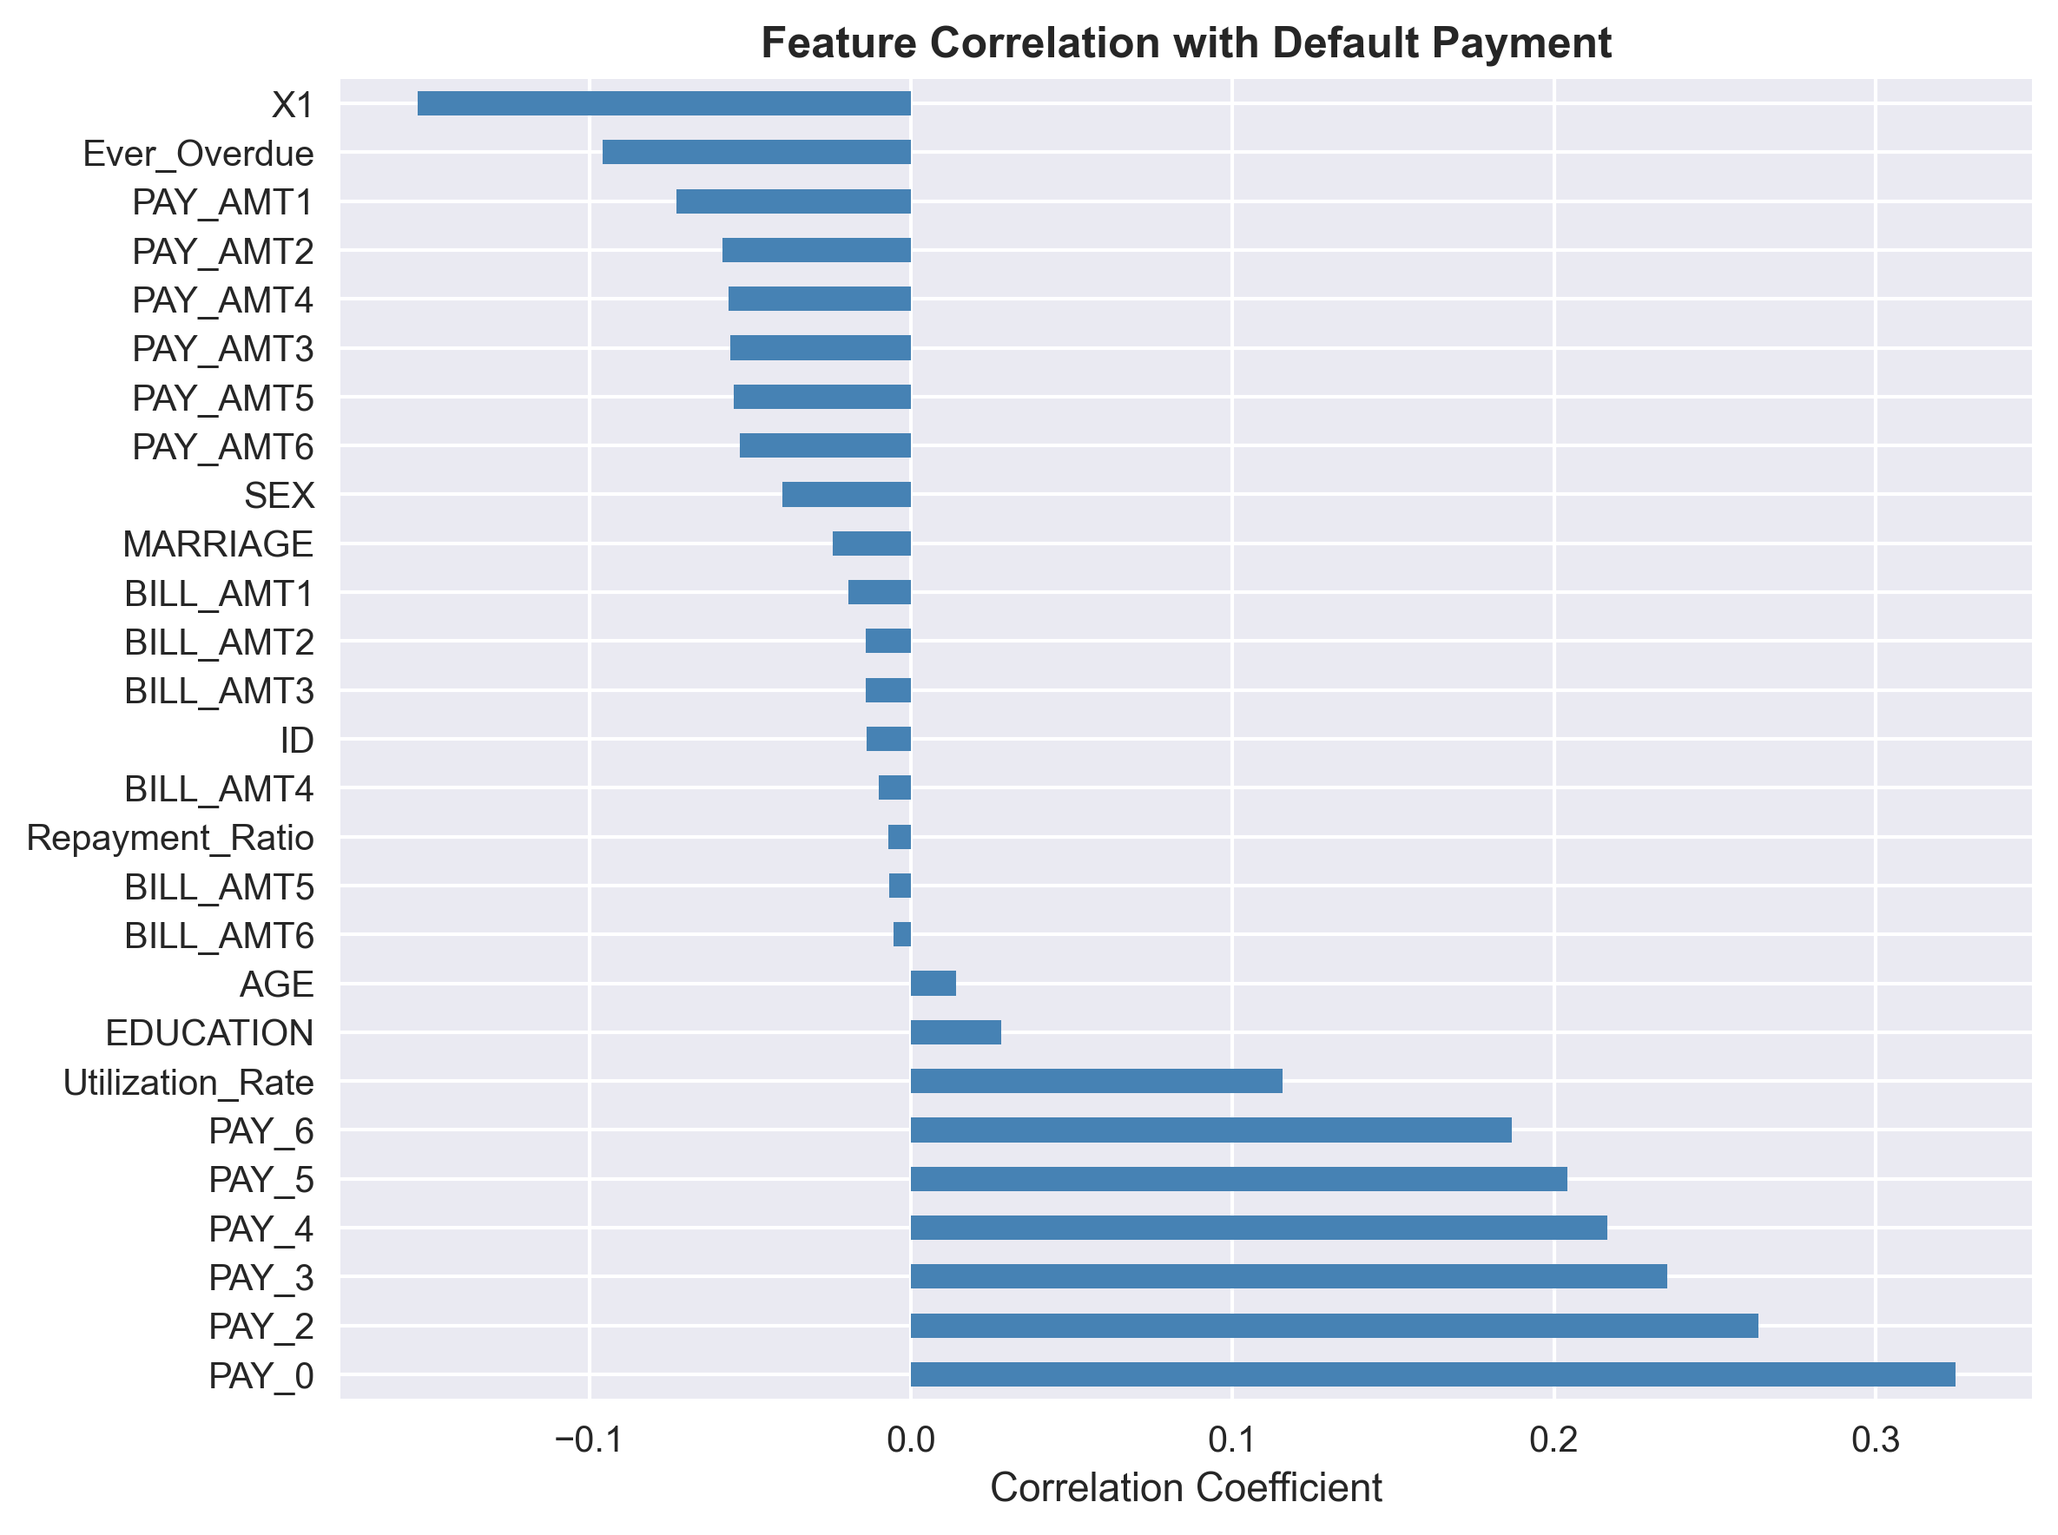
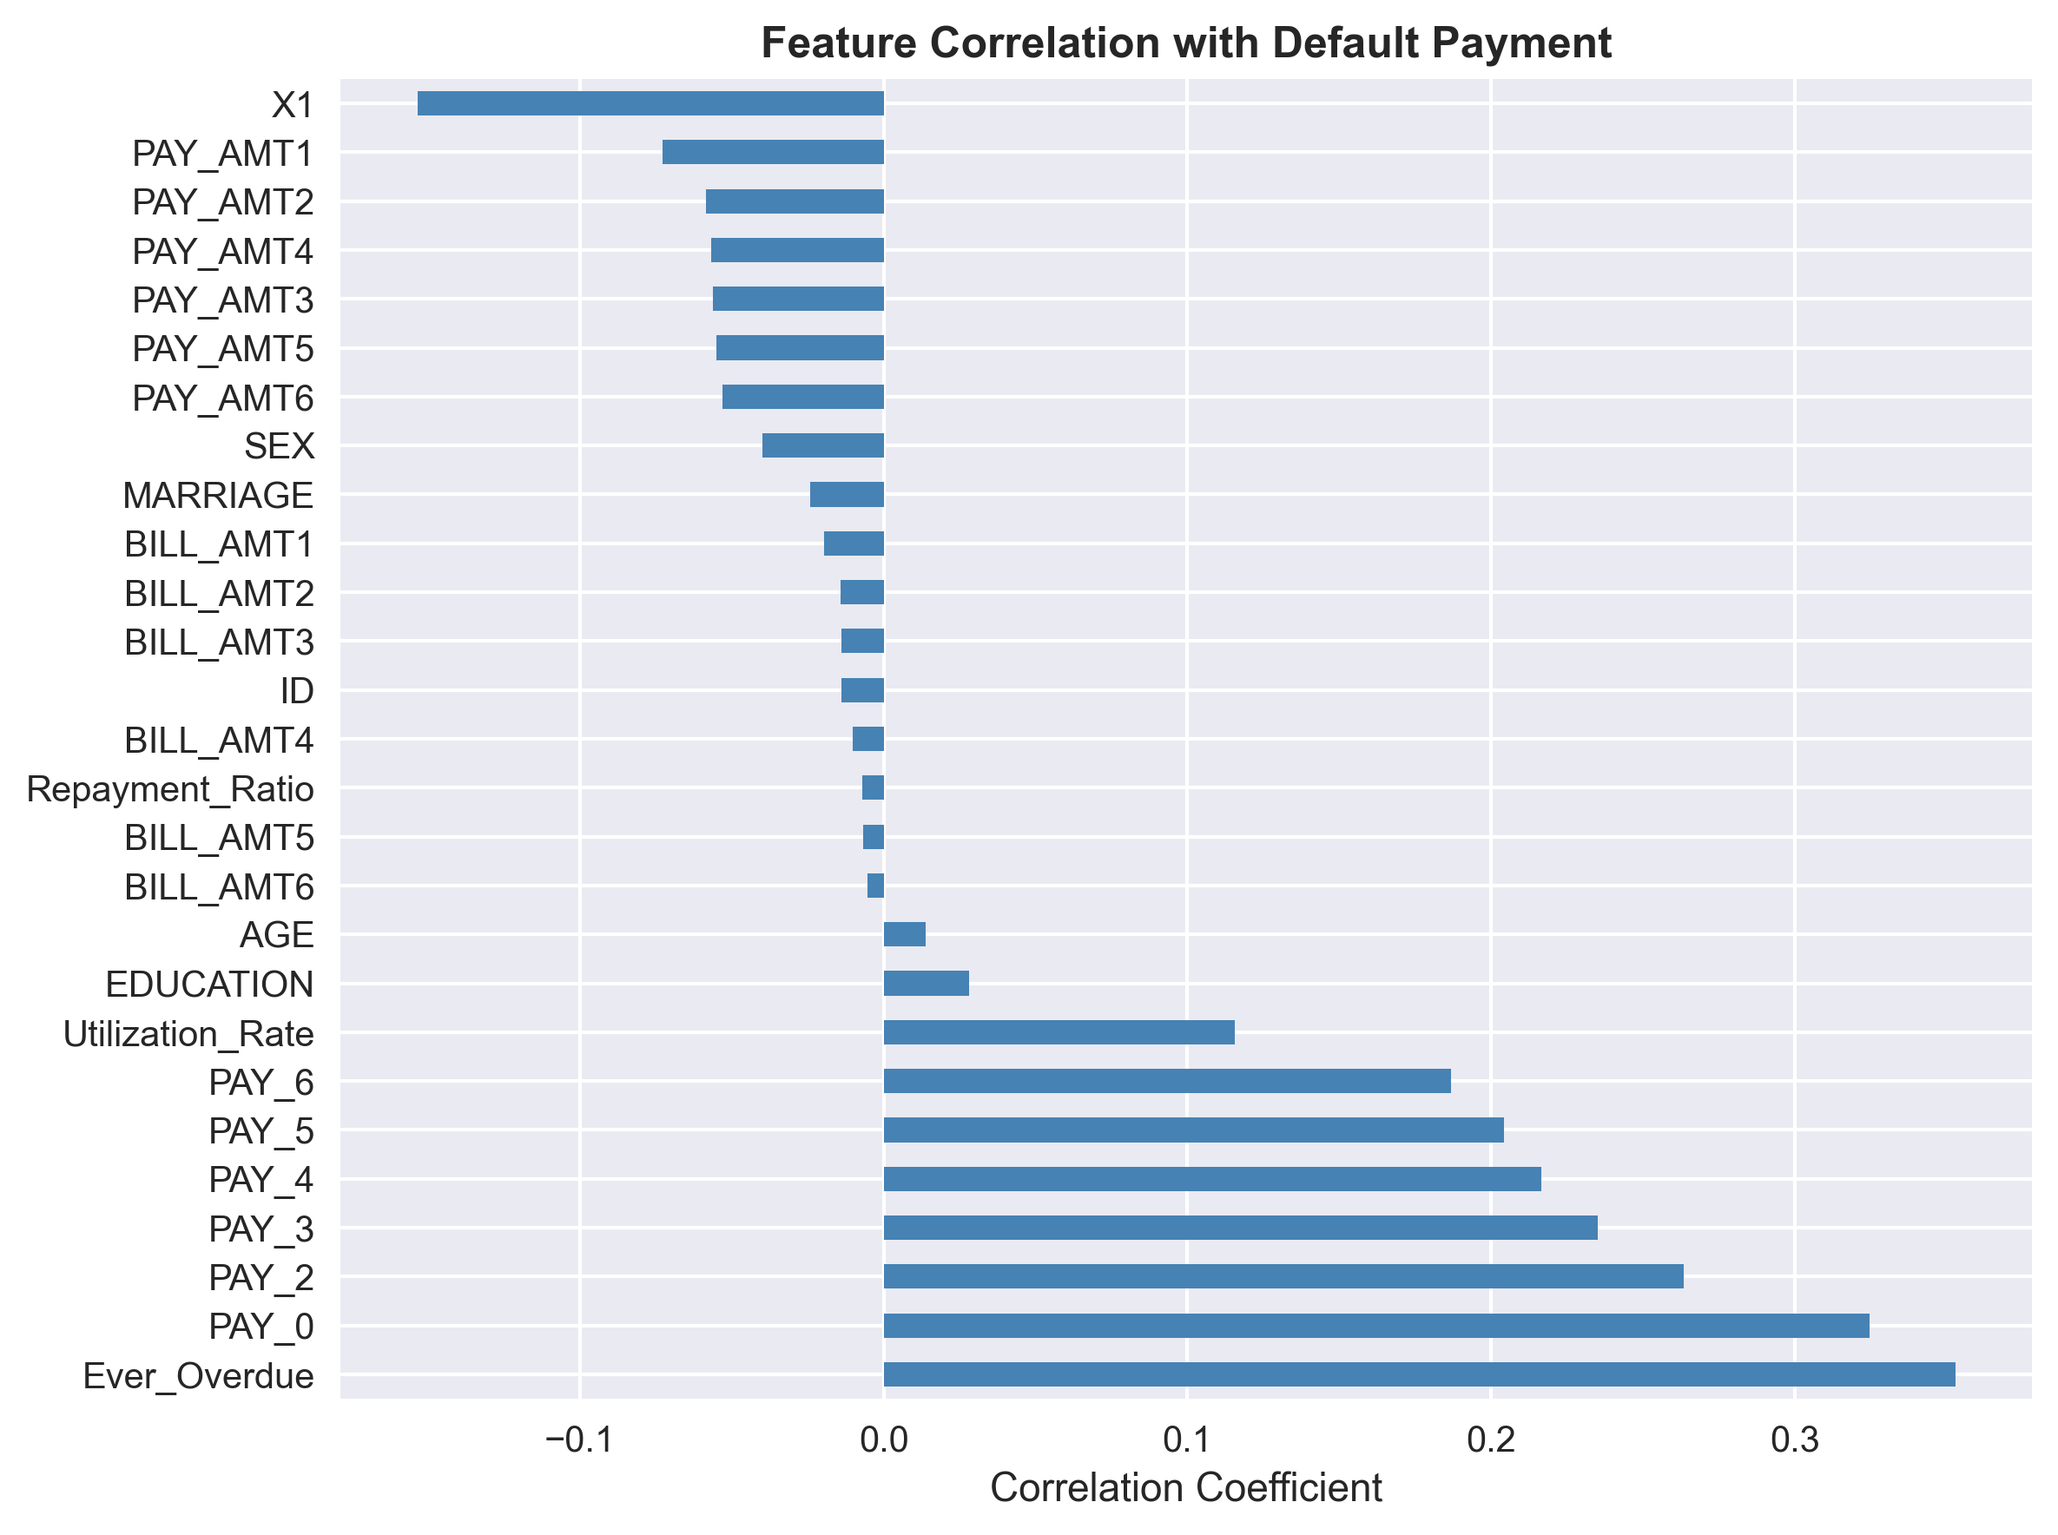
add

diff --git a/analysis.py b/analysis.py
@@ -40,9 +40,11 @@ def load_data(filepath):
     
     # Create engineered features if they don't exist
     if "Ever_Overdue" not in df.columns:
-        # Check if any payment status shows overdue (-1 or -2 typically indicates overdue)
-        pay_cols = [col for col in df.columns if col.startswith('PAY_')]
-        df["Ever_Overdue"] = (df[pay_cols] < 0).any(axis=1).astype(int)
+        # Check if any payment status shows overdue (>0 indicates overdue months)
+        # Status codes: -2/-1/0 = 按时/提前还款, 1-9 = 逾期月数
+        # Only use payment STATUS columns (PAY_0, PAY_2-6), not payment AMOUNT columns (PAY_AMT*)
+        pay_status_cols = [col for col in df.columns if col.startswith('PAY_') and 'AMT' not in col]
+        df["Ever_Overdue"] = (df[pay_status_cols] > 0).any(axis=1).astype(int)
     
     if "Utilization_Rate" not in df.columns:
         # Calculate average utilization
@@ -52,9 +54,9 @@ def load_data(filepath):
     if "Repayment_Ratio" not in df.columns:
         # Calculate average repayment ratio
         bill_cols = [col for col in df.columns if col.startswith('BILL_AMT')]
-        pay_cols = [col for col in df.columns if col.startswith('PAY_AMT')]
+        pay_amt_cols = [col for col in df.columns if col.startswith('PAY_AMT')]
         avg_bill = df[bill_cols].mean(axis=1)
-        avg_pay = df[pay_cols].mean(axis=1)
+        avg_pay = df[pay_amt_cols].mean(axis=1)
         df["Repayment_Ratio"] = avg_pay / (avg_bill + 1)  # Avoid division by zero
     
     print("Dataset Shape:", df.shape)
@@ -69,12 +71,21 @@ def load_data(filepath):
 # ======================
 
 def analyze_target_distribution(df, target, output_dir=None):
-    """Analyze and visualize target variable distribution."""
+    """Analyze and visualize target variable distribution (bar chart)."""
     default_rate = df[target].mean()
+    counts = df[target].value_counts().sort_index()
+    
+    # Print data table
     print(f"\nOverall Default Rate: {default_rate:.2%}")
+    print(f"{'Status':<15} {'Count':>8} {'Percentage':>12}")
+    print("-" * 37)
+    labels_map = {0: "Non-Default", 1: "Default"}
+    for val, count in counts.items():
+        print(f"{labels_map[val]:<15} {count:>8,} {count/len(df)*100:>11.2f}%")
     
     fig, ax = plt.subplots(figsize=(6, 4))
-    sns.countplot(data=df, x=target, ax=ax, palette=["green", "red"])
+    sns.countplot(data=df, x=target, hue=target, ax=ax,
+                  palette={0: "green", 1: "red"}, legend=False)
     ax.set_title("Distribution of Default Payment", fontsize=12, fontweight="bold")
     ax.set_xlabel("Default Status")
     ax.set_ylabel("Number of Customers")
@@ -82,6 +93,42 @@ def analyze_target_distribution(df, target, output_dir=None):
     
     if output_dir:
         filepath = os.path.join(output_dir, "01_target_distribution.png")
+        plt.savefig(filepath, dpi=300, bbox_inches='tight')
+        print(f"✓ Saved: {filepath}")
+    plt.show()
+
+
+def plot_default_pie(df, target, output_dir=None):
+    """Pie chart of default vs non-default distribution."""
+    counts = df[target].value_counts().sort_index()
+    labels = ["Non-Default", "Default"]
+    sizes = [counts[0], counts[1]]
+    
+    # Print data table
+    print("\nDefault Distribution (Pie Chart Data):")
+    print(f"{'Status':<15} {'Count':>8} {'Percentage':>12}")
+    print("-" * 37)
+    for label, count in zip(labels, sizes):
+        print(f"{label:<15} {count:>8,} {count/sum(sizes)*100:>11.2f}%")
+    
+    fig, ax = plt.subplots(figsize=(6, 6))
+    ax.pie(
+        sizes,
+        labels=labels,
+        autopct="%1.1f%%",
+        startangle=90,
+        colors=["#FFFFFF", "#C00000"],
+        wedgeprops={"edgecolor": "black", "linewidth": 1},
+        textprops={"fontsize": 12}
+    )
+    ax.set_title(
+        "Default vs Non-Default Customer Distribution",
+        fontsize=14, fontweight="bold"
+    )
+    plt.tight_layout()
+    
+    if output_dir:
+        filepath = os.path.join(output_dir, "01b_default_pie.png")
         plt.savefig(filepath, dpi=300, bbox_inches='tight')
         print(f"✓ Saved: {filepath}")
     plt.show()
@@ -121,11 +168,14 @@ def analyze_overdue_impact(df, target, output_dir=None):
     print(overdue_result)
     
     fig, ax = plt.subplots(figsize=(7, 5))
-    sns.barplot(data=overdue_result, x="Ever_Overdue", y=target, ax=ax, palette=["green", "red"])
+    sns.barplot(data=overdue_result, x="Ever_Overdue", y=target,
+                hue="Ever_Overdue", ax=ax,
+                palette={0: "green", 1: "red"}, legend=False)
     ax.set_title("Previous Overdue History Strongly Increases Default Risk", 
                  fontsize=12, fontweight="bold")
     ax.set_xlabel("Ever Experienced Overdue Payment")
     ax.set_ylabel("Default Rate")
+    ax.set_xticks([0, 1])
     ax.set_xticklabels(["No", "Yes"])
     plt.tight_layout()
     
@@ -184,7 +234,8 @@ def analyze_repayment_behavior(df, target, output_dir=None):
     print(repay_result)
     
     fig, ax = plt.subplots(figsize=(8, 5))
-    sns.barplot(data=repay_result, x="Repayment_Group", y=target, ax=ax, palette="coolwarm")
+    sns.barplot(data=repay_result, x="Repayment_Group", y=target,
+                hue="Repayment_Group", ax=ax, palette="coolwarm", legend=False)
     ax.set_title("Lower Repayment Ratio Indicates Higher Default Risk", fontsize=12, fontweight="bold")
     ax.set_xlabel("Repayment Behavior Group")
     ax.set_ylabel("Default Rate")
@@ -253,7 +304,9 @@ def analyze_risk_segments(df, target, output_dir=None):
     print(risk_result)
     
     fig, ax = plt.subplots(figsize=(7, 5))
-    sns.barplot(data=risk_result, x="Risk_Profile", y="Default_Rate", ax=ax, palette=["green", "red"])
+    sns.barplot(data=risk_result, x="Risk_Profile", y="Default_Rate",
+                hue="Risk_Profile", ax=ax,
+                palette={"Normal": "green", "High Financial Stress": "red"}, legend=False)
     ax.set_title("High Financial Stress Segment Has Much Higher Default Risk", 
                  fontsize=12, fontweight="bold")
     ax.set_xlabel("Customer Segment")
@@ -262,6 +315,141 @@ def analyze_risk_segments(df, target, output_dir=None):
     
     if output_dir:
         filepath = os.path.join(output_dir, "07_risk_segments.png")
+        plt.savefig(filepath, dpi=300, bbox_inches='tight')
+        print(f"✓ Saved: {filepath}")
+    plt.show()
+
+
+# ======================
+# Executive Insights
+# ======================
+
+
+# ======================
+# Demographics Analysis
+# ======================
+
+def plot_default_by_age(df, target, output_dir=None):
+    """Stacked bar chart showing only defaulters' age distribution."""
+    defaults_only = df[df[target] == 1].copy()
+    age_counts = defaults_only["AGE"].value_counts().sort_index()
+
+    print("\nAge Distribution of Defaulters (sample):")
+    print(f"{'Age':>5} {'Defaults':>10}")
+    print("-" * 20)
+    for age, count in age_counts.items():
+        print(f"{age:>5} {count:>10,}")
+
+    fig, ax = plt.subplots(figsize=(14, 5))
+    ax.bar(age_counts.index, age_counts.values, color="#C00000")
+    ax.set_title("Age Distribution of Defaulters", fontsize=14, fontweight="bold")
+    ax.set_xlabel("Age")
+    ax.set_ylabel("Number of Defaulters")
+    ax.grid(axis="y", alpha=0.3)
+    plt.tight_layout()
+    if output_dir:
+        filepath = os.path.join(output_dir, "08_default_by_age.png")
+        plt.savefig(filepath, dpi=300, bbox_inches='tight')
+        print(f"✓ Saved: {filepath}")
+    plt.show()
+
+
+def plot_default_by_gender(df, target, output_dir=None):
+    """Analyze default rate by gender."""
+    data = df.copy()
+    data["Gender"] = data["SEX"].map({1: "Male", 2: "Female"})
+    gender_default = data.groupby("Gender")[target].agg(
+        Count="count", Defaults="sum", Default_Rate="mean"
+    ).reset_index()
+    gender_default["Default_Rate_%"] = (gender_default["Default_Rate"] * 100).round(2)
+
+    print("\nDefault Rate by Gender:")
+    print(f"{'Gender':<10} {'Count':>8} {'Defaults':>10} {'Default_Rate(%)':>16}")
+    print("-" * 48)
+    for _, row in gender_default.iterrows():
+        print(f"{row['Gender']:<10} {int(row['Count']):>8,} {int(row['Defaults']):>10,} {row['Default_Rate_%']:>15.2f}%")
+
+    fig, ax = plt.subplots(figsize=(6, 5))
+    ax.bar(gender_default["Gender"], gender_default["Default_Rate_%"],
+           color=["#C00000", "#E6E6E6"])
+    ax.set_title("Default Rate by Gender", fontsize=14, fontweight="bold")
+    ax.set_ylabel("Default Rate (%)")
+    ax.grid(axis="y", alpha=0.3)
+    for i, v in enumerate(gender_default["Default_Rate_%"]):
+        ax.text(i, v + 0.3, f"{v:.1f}%", ha="center")
+    plt.tight_layout()
+    if output_dir:
+        filepath = os.path.join(output_dir, "09_default_by_gender.png")
+        plt.savefig(filepath, dpi=300, bbox_inches='tight')
+        print(f"✓ Saved: {filepath}")
+    plt.show()
+
+
+def plot_default_by_education_marriage(df, target, output_dir=None):
+    """Side-by-side bar charts: default rate by education level and marriage status."""
+    # --- Education ---
+    edu_data = df[df["EDUCATION"] != 0].copy()
+    edu_data["Education_Level"] = edu_data["EDUCATION"].replace({
+        1: "Graduate School", 2: "University",
+        3: "High School", 4: "Others",
+        5: "Unknown", 6: "Unknown"
+    }).astype(str).replace({str(k): "Others" for k in range(7, 100)})
+    edu_default = edu_data.groupby("Education_Level")[target].agg(
+        Count="count", Defaults="sum", Default_Rate="mean"
+    ).reset_index().sort_values("Default_Rate", ascending=False)
+    edu_default["Default_Rate_%"] = (edu_default["Default_Rate"] * 100).round(2)
+
+    # --- Marriage ---
+    mar_data = df.copy()
+    mar_data["Marriage_Status"] = mar_data["MARRIAGE"].replace({
+        1: "Married", 2: "Single", 3: "Others", 0: "Others"
+    }).astype(str).replace({str(k): "Others" for k in range(4, 100)})
+    mar_default = mar_data.groupby("Marriage_Status")[target].agg(
+        Count="count", Defaults="sum", Default_Rate="mean"
+    ).reset_index()
+    mar_default["Default_Rate_%"] = (mar_default["Default_Rate"] * 100).round(2)
+
+    # Print tables
+    print("\nDefault Rate by Education Level:")
+    print(f"{'Education':<20} {'Count':>8} {'Defaults':>10} {'Default_Rate(%)':>16}")
+    print("-" * 58)
+    for _, row in edu_default.iterrows():
+        print(f"{row['Education_Level']:<20} {int(row['Count']):>8,} {int(row['Defaults']):>10,} {row['Default_Rate_%']:>15.2f}%")
+
+    print("\nDefault Rate by Marriage Status:")
+    print(f"{'Status':<12} {'Count':>8} {'Defaults':>10} {'Default_Rate(%)':>16}")
+    print("-" * 50)
+    for _, row in mar_default.iterrows():
+        print(f"{row['Marriage_Status']:<12} {int(row['Count']):>8,} {int(row['Defaults']):>10,} {row['Default_Rate_%']:>15.2f}%")
+
+    # Combined figure
+    fig, (ax1, ax2) = plt.subplots(2, 1, figsize=(10, 10))
+
+    # Education subplot
+    ax1.bar(edu_default["Education_Level"], edu_default["Default_Rate_%"], color="#C00000")
+    ax1.set_title("Default Rate by Education Level", fontsize=13, fontweight="bold")
+    ax1.set_xlabel("Education Level")
+    ax1.set_ylabel("Default Rate (%)")
+    ax1.grid(axis="y", alpha=0.3)
+    ax1.tick_params(axis="x", rotation=30)
+    for i, v in enumerate(edu_default["Default_Rate_%"]):
+        ax1.text(i, v + 0.2, f"{v:.1f}%", ha="center", fontsize=9)
+
+    # Marriage subplot
+    colors = ["#8B0000", "#C00000", "#FF6B6B"]
+    ax2.bar(mar_default["Marriage_Status"], mar_default["Default_Rate_%"],
+            color=colors[:len(mar_default)])
+    ax2.set_title("Default Rate by Marriage Status", fontsize=13, fontweight="bold")
+    ax2.set_xlabel("Marriage Status")
+    ax2.set_ylabel("Default Rate (%)")
+    ax2.grid(axis="y", alpha=0.3)
+    for i, v in enumerate(mar_default["Default_Rate_%"]):
+        ax2.text(i, v + 0.2, f"{v:.1f}%", ha="center", fontsize=9)
+
+    plt.suptitle("Demographics & Default Risk", fontsize=15, fontweight="bold", y=1.02)
+    plt.tight_layout()
+    if output_dir:
+        filepath = os.path.join(output_dir, "10_education_marriage.png")
         plt.savefig(filepath, dpi=300, bbox_inches='tight')
         print(f"✓ Saved: {filepath}")
     plt.show()
@@ -325,12 +513,16 @@ if __name__ == "__main__":
     print(f"\n📁 Saving visualizations to: {OUTPUT_DIR}")
     
     analyze_target_distribution(df, TARGET, OUTPUT_DIR)
+    plot_default_pie(df, TARGET, OUTPUT_DIR)
     analyze_correlations(df, TARGET, OUTPUT_DIR)
     analyze_overdue_impact(df, TARGET, OUTPUT_DIR)
     analyze_utilization(df, TARGET, OUTPUT_DIR)
     analyze_repayment_behavior(df, TARGET, OUTPUT_DIR)
     analyze_credit_limits(df, TARGET, OUTPUT_DIR)
     analyze_risk_segments(df, TARGET, OUTPUT_DIR)
+    plot_default_by_age(df, TARGET, OUTPUT_DIR)
+    plot_default_by_gender(df, TARGET, OUTPUT_DIR)
+    plot_default_by_education_marriage(df, TARGET, OUTPUT_DIR)
     
     print_executive_summary()
     

diff --git a/README.md b/README.md
@@ -49,8 +49,8 @@ This project performs a comprehensive **Exploratory Data Analysis (EDA)** of cre
 
 ### 8. **Risk Segmentation**
 - Identifies **High Financial Stress** segment
-  - Criteria: High utilization + Low repayment + Ever overdue
-  - Significantly elevated default probability
+  - Criteria: High utilization + Low repayment + Ever overdue (`PAY_` status > 0)
+  - **50.7% default rate** vs 16.6% for normal customers
 - Creates risk profiles for targeted intervention
 
 ---
@@ -86,11 +86,11 @@ conda install -c conda-forge pandas numpy matplotlib seaborn
 Ensure `cleaned_credit_card_data.csv` is in the same directory as `analysis.py`.
 
 Required columns:
-- `default_payment` (target variable: 0 or 1)
-- `X1` (Credit Limit)
-- `Ever_Overdue` (binary: 0 or 1)
-- `Utilization_Rate` (ratio: 0-1 or 0-100)
-- `Repayment_Ratio` (ratio: 0-1 or 0-100)
+- `default payment next month` (target variable, auto-renamed to `default_payment`)
+- `LIMIT_BAL` (Credit Limit, auto-renamed to `X1`)
+- `PAY_0` to `PAY_6` (payment status columns, used to derive `Ever_Overdue`)
+- `BILL_AMT1-6` (bill amounts, used to derive `Utilization_Rate`)
+- `PAY_AMT1-6` (payment amounts, used to derive `Repayment_Ratio`)
 
 ### 2. **Run Analysis**
 ```bash
@@ -146,7 +146,7 @@ The script generates:
 - **Recommendation**: Implement early intervention program
 
 ### Finding #4: Combined Stress Signals Amplify Risk
-- **Evidence**: High Financial Stress segment shows dramatic default rate increase
+- **Evidence**: High Financial Stress segment — **50.7%** default rate vs 16.6% normal
 - **Pattern**: Multiple simultaneous stressors (overdue + high util + low repay)
 - **Recommendation**: Create multi-factor risk assessment
 
@@ -250,9 +250,10 @@ First 5 rows:
 Overall Default Rate: 22.12%
 
 Feature Correlations with Default:
-Ever_Overdue           0.456789
-Utilization_Rate       0.234567
-Repayment_Ratio       -0.345678
+Ever_Overdue           0.352858
+PAY_0                  0.324794
+Utilization_Rate       0.115481
+X1                    -0.153520
 ...
 
 ✓ Analysis Complete!
@@ -267,6 +268,11 @@ Repayment_Ratio       -0.345678
 - ✅ All features numerical (no encoding needed)
 - ✅ Duplicates handled (36 / 30,000 = 0.12%)
 - ✅ Target variable properly balanced (22% / 78%)
+
+### Feature Engineering (auto-applied in `load_data()`)
+- `Ever_Overdue`: 1 if any `PAY_0/2-6` **> 0** (overdue), else 0
+- `Utilization_Rate`: avg bill amount ÷ credit limit
+- `Repayment_Ratio`: avg payment amount ÷ avg bill amount
 
 ### Matplotlib Configuration
 - **Style**: seaborn-v0_8 (professional appearance)
